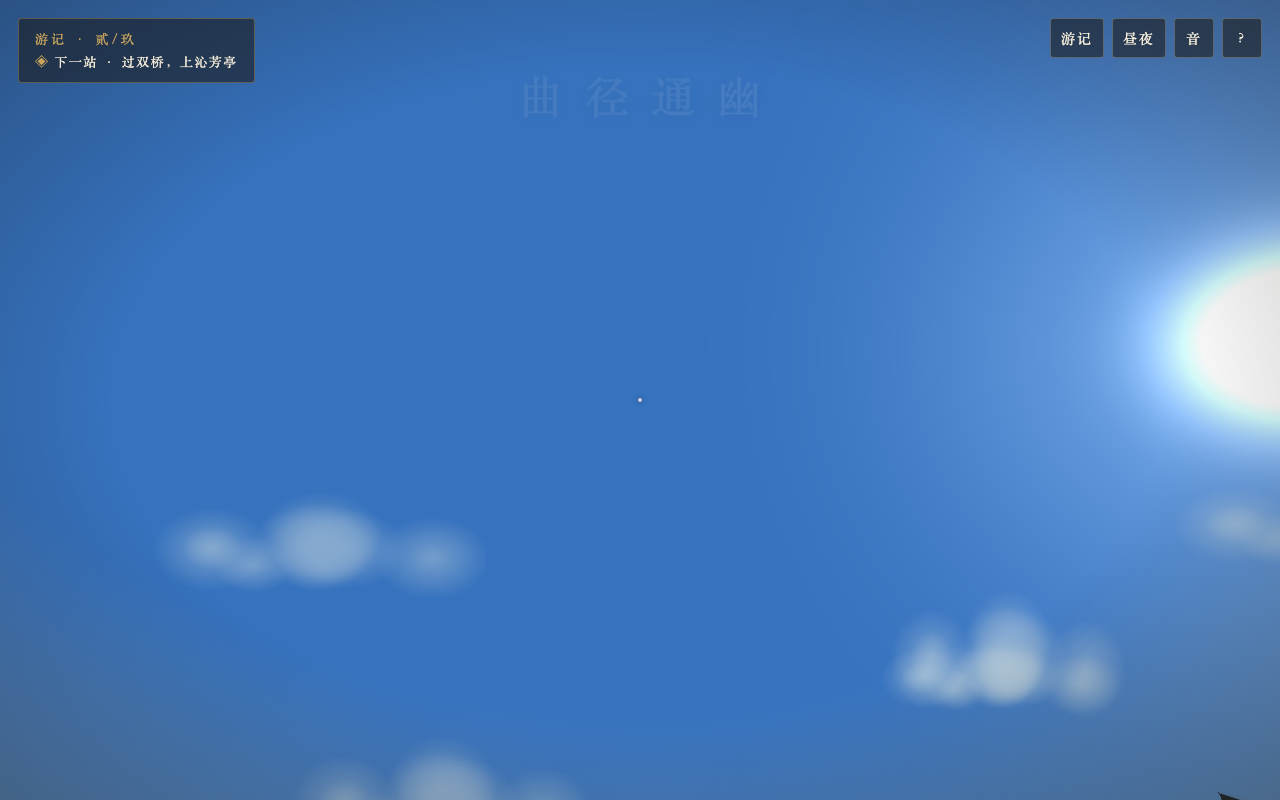
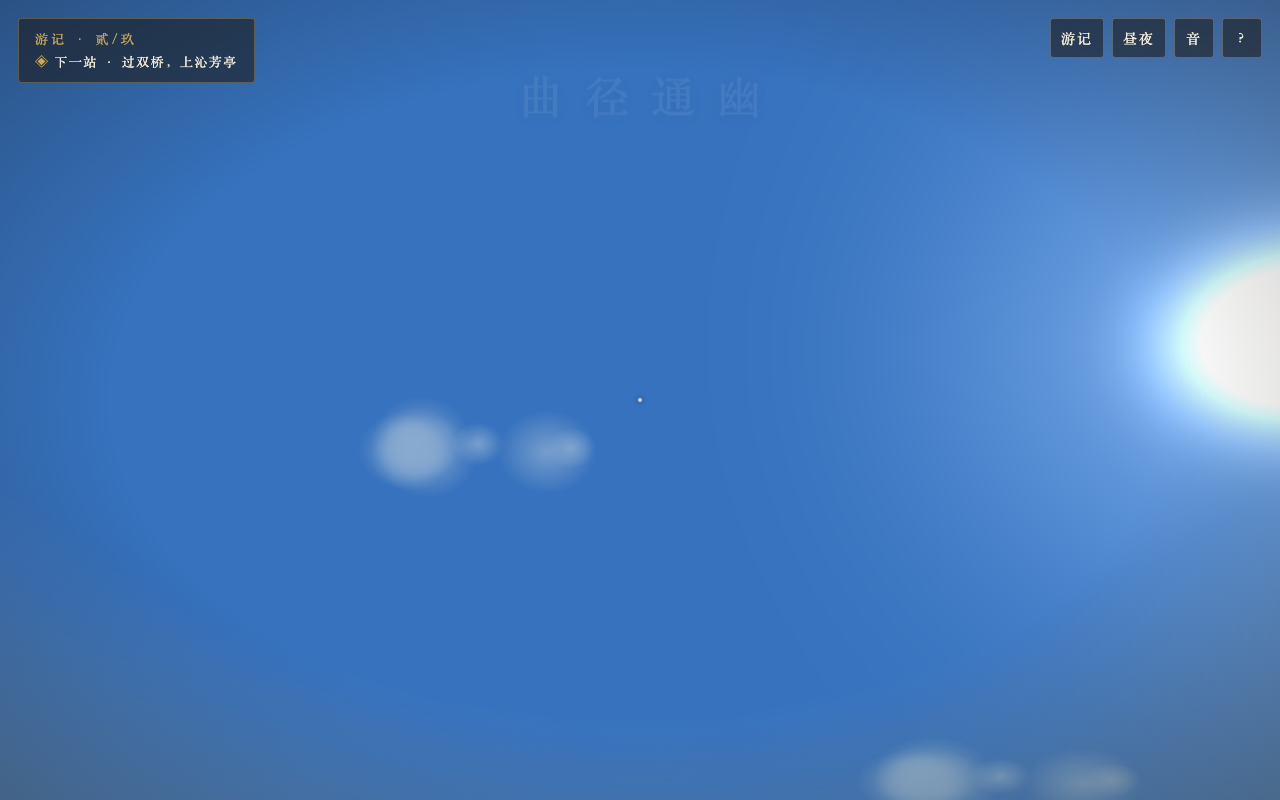
fix: v1.1.1 匾额字形比例与台明地面闪动修复，README 视觉化
- 匾额纹理按牌面宽高比(3.12:1)重绘，汉字恢复方正不再横向拉伸
- 台明基座/裙边共面 z-fighting 致地面反光闪动：改三层错缝构造，
  地面换金砖墁地拼缝纹理并压暗，消除正午眩光（沁芳亭及所有厅堂）
- README 重写：在线体验直达链接、首页横幅与六图画廊、任务与人物介绍

diff --git a/src/world/materials.js b/src/world/materials.js
@@ -134,29 +134,57 @@ export function dirtTexture() {
   return tex;
 }
 
-// 匾额文字纹理
-export function plaqueTexture(text, { bg = '#26201a', fg = '#d8b96a', vertical = false } = {}) {
-  const key = `plaque:${text}:${bg}:${fg}:${vertical}`;
-  return canvasTexture(key, 256, (ctx, s) => {
-    ctx.fillStyle = bg;
-    ctx.fillRect(0, 0, s, s);
-    ctx.strokeStyle = fg;
-    ctx.lineWidth = 8;
-    ctx.strokeRect(8, 8, s - 16, s - 16);
-    ctx.fillStyle = fg;
-    ctx.textAlign = 'center';
-    ctx.textBaseline = 'middle';
-    ctx.font = `bold ${vertical ? 56 : 64}px "Songti SC", "STSong", serif`;
-    if (vertical) {
-      const chars = [...text];
-      const step = (s - 60) / chars.length;
-      chars.forEach((ch, i) => ctx.fillText(ch, s / 2, 34 + step * (i + 0.5)));
-    } else {
-      const chars = [...text];
-      const step = (s - 60) / chars.length;
-      chars.forEach((ch, i) => ctx.fillText(ch, 34 + step * (i + 0.5), s / 2));
+// 台明地面纹理：金砖墁地（方砖拼缝压暗，消正午眩光）
+export function platformTopTexture() {
+  return canvasTexture('platformTop', 256, (ctx, s) => {
+    noiseOn(ctx, s, '#a29a88', 40, 0.3);
+    ctx.strokeStyle = 'rgba(60, 54, 44, 0.38)';
+    ctx.lineWidth = 3;
+    const cell = s / 4;
+    for (let i = 0; i <= 4; i++) {
+      ctx.beginPath(); ctx.moveTo(i * cell, 0); ctx.lineTo(i * cell, s); ctx.stroke();
+      ctx.beginPath(); ctx.moveTo(0, i * cell); ctx.lineTo(s, i * cell); ctx.stroke();
     }
   });
+}
+
+// 匾额纹理：与牌面同宽高比（横 3.12:1 / 竖 1:3.12），汉字保持方正不拉伸
+export function plaqueTexture(text, { bg = '#26201a', fg = '#d8b96a', vertical = false } = {}) {
+  const key = `plaque:${text}:${bg}:${fg}:${vertical}:v2`;
+  if (textureCache.has(key)) return textureCache.get(key);
+  const canvas = document.createElement('canvas');
+  canvas.width = vertical ? 164 : 512;
+  canvas.height = vertical ? 512 : 164;
+  const ctx = canvas.getContext('2d');
+  const w = canvas.width, h = canvas.height;
+
+  ctx.fillStyle = bg;
+  ctx.fillRect(0, 0, w, h);
+  ctx.strokeStyle = fg;
+  ctx.lineWidth = 7;
+  ctx.strokeRect(9, 9, w - 18, h - 18);
+
+  const chars = [...text];
+  ctx.fillStyle = fg;
+  ctx.textAlign = 'center';
+  ctx.textBaseline = 'middle';
+  if (vertical) {
+    const fs = Math.min(104, (h - 70) / chars.length);
+    ctx.font = `bold ${fs}px "Songti SC", "STSong", serif`;
+    const step = (h - 70) / chars.length;
+    chars.forEach((ch, i) => ctx.fillText(ch, w / 2, 35 + step * (i + 0.5)));
+  } else {
+    const fs = Math.min(100, (w - 90) / chars.length);
+    ctx.font = `bold ${fs}px "Songti SC", "STSong", serif`;
+    const step = (w - 90) / chars.length;
+    chars.forEach((ch, i) => ctx.fillText(ch, 45 + step * (i + 0.5), h / 2 + 2));
+  }
+
+  const tex = new THREE.CanvasTexture(canvas);
+  tex.colorSpace = THREE.SRGBColorSpace;
+  tex.anisotropy = 4;
+  textureCache.set(key, tex);
+  return tex;
 }
 
 // 诗碑文字纹理
@@ -207,6 +235,7 @@ export function makeMaterials() {
     woodDark: flat(PALETTE.woodDark),
     stone: flat(PALETTE.stone),
     stoneDark: flat(PALETTE.stoneDark),
+    platformTop: new THREE.MeshLambertMaterial({ map: platformTopTexture() }),
     path: flat(PALETTE.path),
     rock: new THREE.MeshLambertMaterial({ color: PALETTE.rock, flatShading: true }),
     rockDark: new THREE.MeshLambertMaterial({ color: PALETTE.rockDark, flatShading: true }),

diff --git a/src/world/architecture.js b/src/world/architecture.js
@@ -122,11 +122,14 @@ function goldFinial(h, mats) {
 
 export function platform(w, d, h, mats) {
   const g = new THREE.Group();
-  const base = new THREE.Mesh(new THREE.BoxGeometry(w, h, d), mats.stone);
-  base.position.y = h / 2;
-  const lip = new THREE.Mesh(new THREE.BoxGeometry(w + 0.24, 0.1, d + 0.24), mats.stoneDark);
-  lip.position.y = h - 0.05;
-  g.add(base, lip);
+  // 分层构造，杜绝共面：基座顶 h-0.05 → 地面板 h → 裙边顶 h-0.055（错开防 z-fighting 闪烁）
+  const base = new THREE.Mesh(new THREE.BoxGeometry(w, h - 0.05, d), mats.stone);
+  base.position.y = (h - 0.05) / 2;
+  const top = new THREE.Mesh(new THREE.BoxGeometry(w, 0.05, d), mats.platformTop || mats.stone);
+  top.position.y = h - 0.025;
+  const lip = new THREE.Mesh(new THREE.BoxGeometry(w + 0.24, 0.09, d + 0.24), mats.stoneDark);
+  lip.position.y = h - 0.1;
+  g.add(base, top, lip);
   g.userData.ground = [{ minX: -w / 2, maxX: w / 2, minZ: -d / 2, maxZ: d / 2, y: h }];
   return g;
 }

diff --git a/README.md b/README.md
@@ -3,13 +3,50 @@
 《红楼梦》大观园沉浸式 3D 游园体验——纯浏览器运行的第一人称国风园林。
 所有建筑、山水、人物、音乐均为程序化生成，**零外部资源文件**。
 
-![大观园](scripts/aerial.png)
+## 在线体验
 
-## 版本
+**[点击进入大观园 →](https://juicyzhou.github.io/grand-view-garden/)**
 
-当前版本见 [CHANGELOG.md](CHANGELOG.md)（语义化版本：小修改迭代修订号，功能迭代小版本，重大修改大版本）。
+桌面与手机浏览器均可直接游园，无需安装任何东西。
 
-## 快速开始
+![黄昏沁芳亭](docs/img/hero-dusk.png)
+
+## 园中一瞥
+
+|  |  |
+| :---: | :---: |
+| ![全园俯瞰](docs/img/aerial.png) | ![引路花灯](docs/img/lamps.png) |
+| 全园俯瞰 · 八景环池而布 | 引路莲花灯 · 随主线明灭 |
+| ![潇湘馆月洞门](docs/img/moongate.png) | ![怡红院宝玉](docs/img/baoyu.png) |
+| 潇湘馆月洞门 · 竹径通厅 | 贾宝玉 · 金冠抹额通灵玉 |
+| ![大观园游记](docs/img/journal.png) | ![夜色牌坊](docs/img/night.png) |
+| 游记九章 · 朱砂集章 | 省亲别墅 · 灯火夜色 |
+
+## 特色
+
+- **大观园八景**：沁芳亭（池心洲双桥）、潇湘馆（竹林月门）、怡红院（海棠红灯）、蘅芜苑（土山湖石）、稻香村（竹篱茅舍）、栊翠庵（红梅）、藕香榭与蓼汀花溆（临水莲浦）、大观楼·省亲别墅（重檐正殿与牌坊）
+- **「大观园游记」九章主线**：入园、曲径通幽、沁芳观鱼、潇湘访黛、怡红夜话、蘅芜寻香、栊翠乞梅、稻香尝新、登临大观——目标追踪常驻指引，游记册集朱砂印章，进度自动存档
+- **红楼人物**：黛玉垂鬟罥烟眉、宝玉金冠通灵玉、宝钗圆髻金锁、妙玉尼帽拂尘、李纨素髻——各有专属发型、眉眼与佩饰，近身攀谈（打字机对话）
+- **昼夜循环**：日/夜自动轮转、晚霞过渡、星月升落、灯笼与引路花灯入夜自明
+- **生成式音乐**：谱曲《游园引》——Karplus-Strong 合成古筝演奏起承转合五声旋律，摇指/滑音/泛音/刮奏诸技法；滤波风声、正弦鸟鸣
+- **第一人称漫游**：行走/疾行/跳跃，拱桥、台阶、土山皆为可行走真实地形；新手引导与引路花灯相伴
+- **诗碑品读**：《葬花吟》《访妙玉乞红梅》《杏帘在望》《曲径通幽》四通诗碑
+
+## 操作
+
+| 按键 | 作用 |
+| --- | --- |
+| `W A S D` | 行走 |
+| `Shift` | 疾行 |
+| `空格` | 跳跃 |
+| `E` | 与人物交谈 / 品读诗碑 |
+| `J` | 展开游记册（集章进度） |
+| 鼠标 | 环视（点击画面锁定指针） |
+| `Esc` | 释放鼠标 |
+
+移动端：左侧虚拟摇杆行走，右侧滑动环视，点按文本框推进对话，触屏按钮交谈/跳跃。
+
+## 本地开发
 
 ```bash
 npm install
@@ -24,39 +61,18 @@ npm run build    # 产物在 dist/，任意静态服务器可托管
 npm run preview  # 本地预览构建产物
 ```
 
-## 操作
-
-| 按键 | 作用 |
-| --- | --- |
-| `W A S D` | 行走 |
-| `Shift` | 疾行 |
-| `空格` | 跳跃 |
-| `E` | 与人物交谈 / 品读诗碑 |
-| 鼠标 | 环视（点击画面锁定指针） |
-| `Esc` | 释放鼠标 |
-
-移动端：左侧虚拟摇杆行走，右侧滑动环视，屏幕按钮交谈/跳跃。
-
-## 园中景致
-
-- **沁芳亭** —— 池心洲上，南北双拱桥相连，荷风四面
-- **潇湘馆** —— 千百竿翠竹环合，黛玉临竹而立，《葬花吟》诗碑在侧
-- **怡红院** —— 海棠盛开，红灯高挂，宝玉相待
-- **蘅芜苑** —— 土山之上，湖石罗列，宝钗居焉
-- **稻香村** —— 竹篱茅舍、春韭田畦、杏帘在望
-- **栊翠庵** —— 红梅映雪，妙玉煎茶
-- **藕香榭 / 蓼汀花溆** —— 临水亭榭，莲浦菱歌
-- **大观楼 · 省亲别墅** —— 北园正殿，重檐牌坊
+推送 `main` 分支即由 GitHub Actions 自动构建并部署到 GitHub Pages。
 
 ## 技术要点
 
 - **Three.js (WebGL)**，无引擎、无构建期资源
 - **程序化中式建筑**：举折曲面屋顶 + 翼角起翘参数化生成（`src/world/architecture.js`）
 - **昼夜循环**：太阳/月光轨道、晚霞过渡、星月、灯笼自发光（`src/core/engine.js`）
-- **生成式音乐**：Karplus-Strong 拨弦合成古筝，五声音阶行吟 + 刮奏；滤波噪声作风、正弦扫频作鸟（`src/core/audio.js`）
+- **生成式音乐**：谱曲式古筝（摇指/滑音/刮奏）+ 环境风声鸟鸣（`src/core/audio.js`）
 - **碰撞与地形**：圆/盒碰撞体 + 函数地面（桥拱、台阶、土山余弦坡）（`src/core/player.js`、`src/world/garden.js`）
+- **任务系统**：九章游记状态机 + localStorage 持久化（`src/ui/quest.js`）
 - **实例化渲染**：竹林、花丛、苇草、甬路石板（InstancedMesh）
-- **Canvas 程序化纹理**：瓦垄、窗棂、草地、匾额、诗碑
+- **Canvas 程序化纹理**：瓦垄、窗棂、草地、匾额、诗碑、人物面容
 
 ## 目录结构
 
@@ -74,12 +90,13 @@ src/
 │   ├── garden.js         # 大观园总体布局
 │   └── npc.js            # 红楼人物与对话
 └── ui/
-    └── hud.js            # 标题 / HUD / 对话 / 诗碑
+    ├── hud.js            # 标题 / HUD / 对话 / 引导 / 游记册
+    └── quest.js          # 九章游记任务系统
 
 scripts/
 ├── smoke.mjs             # 无头浏览器冒烟测试
 ├── tour.mjs              # 各景点巡回截图
-└── interact-test.mjs     # 交互端到端测试
+└── interact-test.mjs     # 交互与任务端到端测试
 ```
 
 ## 测试
@@ -89,5 +106,9 @@ scripts/
 ```bash
 node scripts/smoke.mjs          # 加载/入画/行走/昼夜
 node scripts/tour.mjs           # 各景点截图到 scripts/
-node scripts/interact-test.mjs  # 对话与诗碑交互
+node scripts/interact-test.mjs  # 对话、诗碑与任务断言
 ```
+
+## 版本
+
+当前版本与迭代历史见 [CHANGELOG.md](CHANGELOG.md)（语义化版本：小修改迭代修订号，功能迭代小版本，重大修改大版本）。

diff --git a/CHANGELOG.md b/CHANGELOG.md
@@ -10,6 +10,17 @@
 
 ---
 
+## [1.1.1] - 2026-07-31
+
+### 修复
+- **匾额文字变形**：匾额纹理原为方形画布贴 3.13:1 牌面，汉字被横向拉宽约 3 倍；重绘为与牌面同宽高比的 512×164 画布，按字数自适应字距，恢复方正字形
+- **沁芳亭（及所有厅堂）地面反光闪动**：台明基座顶面与裙边顶面共面（y=h）产生 z-fighting，走近与移动时双材质交替闪烁；台明改为基座/地面板/裙边三层错缝构造，地面板换用金砖墁地拼缝纹理并压暗色调，消除正午眩光
+
+### 文档
+- README 视觉化重写：首页横幅与六图园中一瞥、在线体验直达链接、任务系统与人物特色介绍、目录与操作更新
+
+---
+
 ## [1.1.0] - 2026-07-30
 
 依据首批玩家反馈的体验迭代：解决"不知怎么走、不知干什么、人物千人一面、潇湘馆进门撞竹、音乐无调"五个问题。
